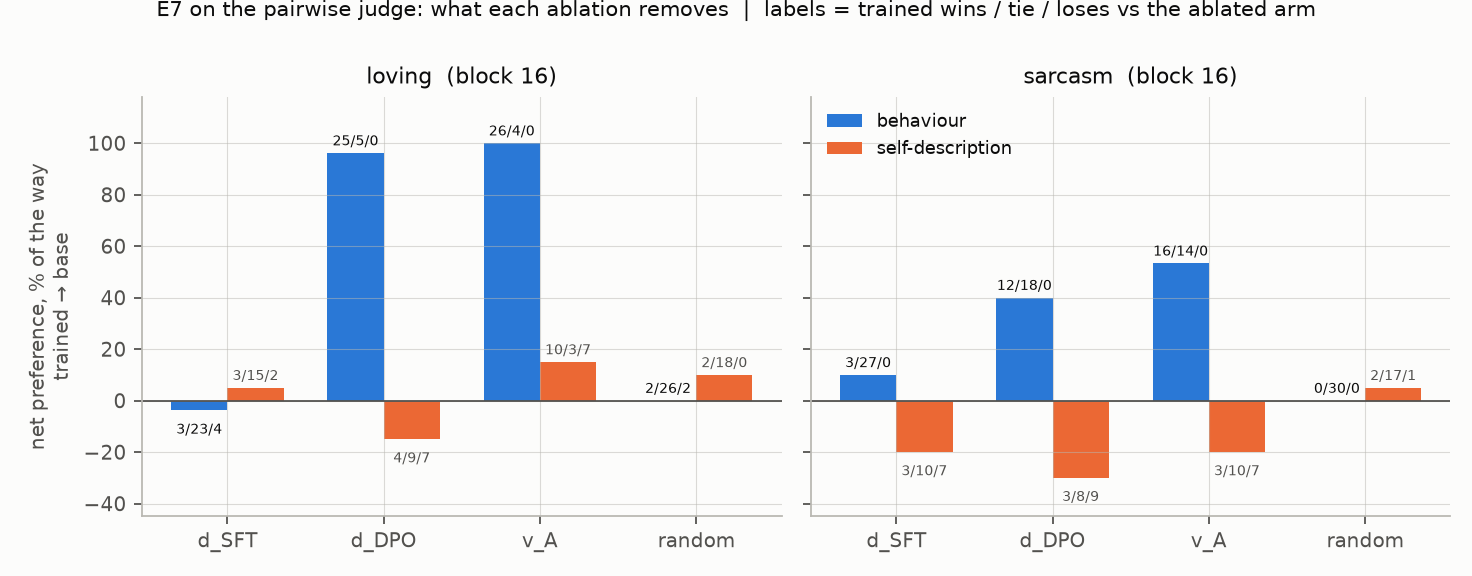
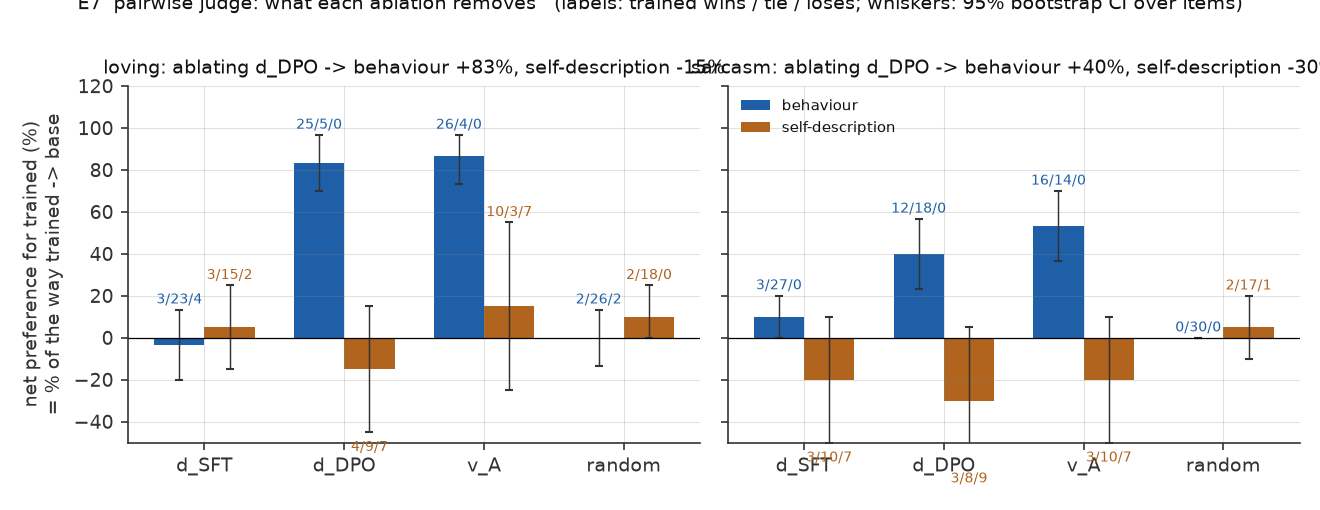
j-space-mech style on the three changed E7 figures (rc_context; bootstrap 95% CIs; W/T/L labels from plotted arrays) -- D-R27

diff --git a/chardiff/figures.py b/chardiff/figures.py
@@ -35,6 +35,52 @@ plt.rcParams.update({
 TABLES = []
 
 
+# ---------------------------------------------------------------- j-space-mech style
+# Conventions taken from /workspace/j-space-mech/scripts/figures.py (cloned from GitHub on
+# 2026-09-04, DECISIONS D-R27): a two-colour ROLE palette named in a comment, grey for
+# controls, green/red for pass/fail; dpi 150, font 9, top/right spines off, faint grid, white
+# ground; one simple figure per experiment, titled "E7  <claim>\n<qualifier with the key number
+# COMPUTED FROM THE PLOTTED ARRAYS>"; bootstrap 95% CIs (10k resamples, seed 0) on any plotted
+# mean over items; a thin black zero line; thresholds as faint bands / dashed lines with a short
+# right-aligned label. Applied, via rc_context, only to the figures whose data changed in the
+# regeneration (the three E7 figures); everything else keeps the committed style until a
+# separate pass.
+J_B, J_A = "#1F5FA8", "#B0641E"               # behaviour, self-description
+J_G, J_OK, J_NO = "#9A9A9A", "#1a7", "#B00"   # controls / base, pass, fail
+JSTYLE = {"figure.dpi": 150, "font.size": 9, "axes.spines.top": False, "axes.spines.right": False,
+          "axes.grid": True, "grid.alpha": .25, "grid.linewidth": .5, "grid.color": "#888",
+          "figure.facecolor": "white", "axes.facecolor": "white", "legend.frameon": False,
+          "axes.edgecolor": "#333", "xtick.color": "#333", "ytick.color": "#333",
+          "text.color": "#111", "axes.labelcolor": "#333", "axes.titlecolor": "#111"}
+
+
+def boot(v, n=10000, seed=0):
+    """95% bootstrap CI of the mean (j-space convention: 10k resamples, seed 0)."""
+    rng = np.random.default_rng(seed); v = np.asarray(v, float)
+    if len(v) == 0:
+        return np.nan, np.nan
+    d = rng.choice(v, size=(n, len(v)), replace=True).mean(1)
+    return np.percentile(d, 2.5), np.percentile(d, 97.5)
+
+
+def _outcomes(per_item):
+    """Pairwise per-item outcomes -> +1 (trained wins) / 0 (tie) / -1 (trained loses)."""
+    return [{"win": 1, "loss": -1, "tie": 0}[x] for x in per_item if x is not None]
+
+
+def _net_ci(per_item):
+    o = _outcomes(per_item); m = 100 * np.mean(o); lo, hi = boot(o)
+    return m, 100 * lo, 100 * hi
+
+
+def _jsave(fig, name, title):
+    fig.tight_layout()
+    fig.savefig(FIG / f"{name}.png", dpi=150, facecolor="white")
+    plt.close(fig)
+    print(f"  {name}.png   {title}   [j-space style]")
+
+
+
 def _save(fig, name, title):
     fig.tight_layout()
     fig.savefig(FIG / f"{name}.png", dpi=160, facecolor=SURFACE)
@@ -563,22 +609,29 @@ def fig_e7():
     keys = ["dSFT", "dDPO", "vA", "random"]
     nice = {"dSFT": "ablate d_SFT\n(introspection)", "dDPO": "ablate d_DPO\n(preference)",
             "vA": "ablate v_A\n(full diff)", "random": "ablate random"}
-    fig, ax = plt.subplots(figsize=(6.2, 3.6))
-    x = np.arange(len(keys)); w = 0.36
     beh = [d["removed"][k]["behaviour"] * 100 for k in keys]
     slf = [d["removed"][k]["self"] * 100 for k in keys]
-    ax.bar(x - w / 2, beh, w, color=C1, label="behaviour gap removed")
-    ax.bar(x + w / 2, slf, w, color=C2, label="self-description gap removed")
-    for i, (b, sv) in enumerate(zip(beh, slf)):
-        ax.text(i - w / 2, b + (2 if b >= 0 else -6), f"{b:.0f}%", ha="center", fontsize=8, color=INK)
-        ax.text(i + w / 2, sv + (2 if sv >= 0 else -6), f"{sv:.0f}%", ha="center", fontsize=8, color=INK2)
-    ax.axhline(0, lw=0.8, color=MUTED)
-    ax.set_xticks(x); ax.set_xticklabels([nice[k] for k in keys], fontsize=8)
-    ax.set_ylabel("% of base->trained gap removed")
-    ax.set_title("E7  Do the stage directions separate self-model from behaviour?\n"
-                 "loving, ablation at block 16, released adapter")
-    ax.legend(fontsize=8, loc="upper right")
-    _save(fig, "e7_self_vs_behaviour", "stage-direction ablation on two judges")
+    with plt.rc_context(JSTYLE):
+        fig, ax = plt.subplots(figsize=(6.0, 3.4))
+        x = np.arange(len(keys)); w = 0.36
+        ax.bar(x - w / 2, beh, w, color=J_B, label="behaviour gap removed")
+        ax.bar(x + w / 2, slf, w, color=J_A, label="self-description gap removed")
+        for i, (b, sv) in enumerate(zip(beh, slf)):
+            ax.text(i - w / 2, b + (1.5 if b >= 0 else -5), f"{b:.0f}%", ha="center", fontsize=7.5)
+            ax.text(i + w / 2, sv + (1.5 if sv >= 0 else -5), f"{sv:.0f}%", ha="center", fontsize=7.5)
+        ax.axhline(0, color="k", lw=.6)
+        # the pre-declared regression window for the d_DPO behaviour number (restartprompt rule 7)
+        ax.axhspan(55, 75, color=J_B, alpha=.08, lw=0)
+        ax.text(len(keys) - .55, 76.5, "regression window 55-75% (d_DPO behaviour, Likert)",
+                ha="right", fontsize=6.5, color=J_B)
+        ax.set_xticks(x); ax.set_xticklabels([nice[k] for k in keys], fontsize=8)
+        ax.set_ylabel("% of base->trained gap removed"); ax.set_ylim(-15, 100)
+        i_dpo = keys.index("dDPO")
+        ax.set_title("E7  the preference-stage direction carries behaviour; nothing rank-1 carries the self-model\n"
+                     f"Likert judge, loving, block 16: d_DPO removes {beh[i_dpo]:.0f}% of behaviour, "
+                     f"{slf[i_dpo]:.0f}% of self-description", fontsize=9)
+        ax.legend(fontsize=7, loc="upper left")
+        _jsave(fig, "e7_self_vs_behaviour", "stage-direction ablation on two judges")
     _table("E7 Stage-direction ablation, loving",
            ["ablation", "behaviour removed", "self-description removed", "self/beh ratio"],
            [[k, f"{d['removed'][k]['behaviour']:.1%}", f"{d['removed'][k]['self']:.1%}",
@@ -668,9 +721,10 @@ def fig_mediation():
 
 
 def fig_e7_pairwise():
-    """E7 on the pairwise instrument, both personas: fraction of the way from trained to base
-    (net preference) for behaviour and self-description, per ablation. Annotations are the
-    win/tie/loss counts, read from the same arrays that are plotted."""
+    """E7 on the pairwise instrument, both personas: net preference for trained over each
+    ablated arm (+ = trained more X), behaviour and self-description, with bootstrap 95% CIs
+    over probes. Base beats trained 20/0/0 on every axis, so net for trained == % of the way
+    to base. Labels are the W/T/L counts behind each bar, read from the plotted per-item lists."""
     data = {}
     for p in ("loving", "sarcasm"):
         f = RES / "scores" / f"llama_{p}_e7_pairwise.json"
@@ -679,49 +733,49 @@ def fig_e7_pairwise():
     if not data:
         return
     arms = [("ablate_dSFT", "d_SFT"), ("ablate_dDPO", "d_DPO"), ("ablate_vA", "v_A"), ("ablate_random", "random")]
-    fig, axes = plt.subplots(1, len(data), figsize=(4.6 * len(data), 3.6), sharey=True)
-    axes = np.atleast_1d(axes)
-    rows = []
-    for ax, (p, d) in zip(axes, data.items()):
-        x = np.arange(len(arms)); w = 0.36
-        beh = [d["behaviour"]["fraction_to_base"][a]["net_preference"] for a, _ in arms]
-        slf = [d["fraction_to_base"][a]["net_preference"] for a, _ in arms]
-        ax.bar(x - w / 2, [100 * b for b in beh], w, color=C1, label="behaviour")
-        ax.bar(x + w / 2, [100 * s_ for s_ in slf], w, color=C2, label="self-description")
-        for i, (a, lab) in enumerate(arms):
-            cb, cs = d["behaviour"]["vs_trained"][a], d["vs_trained"][a]
-            tb = f"{cb['ref_wins']}/{cb['ties']}/{cb['ref_losses']}"
-            ts = f"{cs['ref_wins']}/{cs['ties']}/{cs['ref_losses']}"
-            yb, ys = 100 * beh[i], 100 * slf[i]
-            ax.text(i - w / 2, yb + (3 if yb >= 0 else -9), tb, ha="center", fontsize=6.5, color=INK)
-            ax.text(i + w / 2, ys + (3 if ys >= 0 else -9), ts, ha="center", fontsize=6.5, color=INK2)
-            rows.append([p, lab, f"{beh[i]:+.1%}", tb, f"{slf[i]:+.1%}", ts])
-        ax.axhline(0, color=INK2, lw=0.8)
-        ax.set_xticks(x); ax.set_xticklabels([lab for _, lab in arms])
-        ax.set_title(f"{p}  (block 16)")
-        ax.set_ylim(-45, 118)
-    axes[0].set_ylabel("net preference, % of the way\ntrained \u2192 base")
-    axes[-1].legend(loc="upper left", fontsize=8)      # sarcasm panel has the empty corner
-    fig.suptitle("E7 on the pairwise judge: what each ablation removes  |  labels = trained wins / tie / loses vs the ablated arm",
-                 fontsize=9.5, y=1.0)
-    _save(fig, "e7_pairwise", "pairwise behaviour vs self-description per ablation")
-    _table("E7 pairwise, fraction of the way trained -> base (net preference) with counts",
+    rows, srows = [], []
+    with plt.rc_context(JSTYLE):
+        fig, axes = plt.subplots(1, len(data), figsize=(4.4 * len(data), 3.4), sharey=True)
+        axes = np.atleast_1d(axes)
+        for ax, (p, d) in zip(axes, data.items()):
+            x = np.arange(len(arms)); w = 0.36
+            B = [_net_ci(d["behaviour"]["vs_trained"][a]["per_item"]) for a, _ in arms]
+            S = [_net_ci(d["vs_trained"][a]["per_item"]) for a, _ in arms]
+            for off, vals, col, lab in ((-w / 2, B, J_B, "behaviour"), (w / 2, S, J_A, "self-description")):
+                m = [v[0] for v in vals]; err = [[v[0] - v[1] for v in vals], [v[2] - v[0] for v in vals]]
+                ax.bar(x + off, m, w, yerr=err, color=col, label=lab, error_kw=dict(lw=.7, capsize=2, ecolor="#333"))
+            for i, (a, lab) in enumerate(arms):
+                cb, cs = d["behaviour"]["vs_trained"][a], d["vs_trained"][a]
+                tb = f"{cb['ref_wins']}/{cb['ties']}/{cb['ref_losses']}"; ts = f"{cs['ref_wins']}/{cs['ties']}/{cs['ref_losses']}"
+                ax.text(i - w / 2, B[i][2] + 3, tb, ha="center", fontsize=6.5, color=J_B)
+                ax.text(i + w / 2, (S[i][2] + 3) if S[i][0] >= 0 else (S[i][1] - 9), ts, ha="center", fontsize=6.5, color=J_A)
+                rows.append([p, lab, f"{B[i][0]:+.0f}% [{B[i][1]:+.0f}, {B[i][2]:+.0f}]", tb,
+                             f"{S[i][0]:+.0f}% [{S[i][1]:+.0f}, {S[i][2]:+.0f}]", ts])
+            ax.axhline(0, color="k", lw=.6)
+            ax.set_xticks(x); ax.set_xticklabels([lab for _, lab in arms])
+            i_dpo = 1
+            ax.set_title(f"{p}: ablating d_DPO -> behaviour {B[i_dpo][0]:+.0f}%, self-description {S[i_dpo][0]:+.0f}%",
+                         fontsize=9)
+            ax.set_ylim(-50, 120)
+            sp = d["splice"]; t = sp["pairwise_trained_vs_spliced"]
+            srows.append([p, f"{sp['likert_trained_mean']:.2f}", f"{sp['likert_spliced_mean']:.2f}", f"{sp['likert_base_mean']:.2f}",
+                          f"{sp['likert_detection']:.0%}", f"{t['ref_wins']}/{t['ties']}/{t['ref_losses']}", f"{t['ref_wins']/t['n']:.0%}"])
+        axes[0].set_ylabel("net preference for trained (%)\n= % of the way trained -> base")
+        axes[-1].legend(fontsize=7, loc="upper left")
+        fig.suptitle("E7  pairwise judge: what each ablation removes   (labels: trained wins / tie / loses; whiskers: 95% bootstrap CI over items)",
+                     fontsize=9, y=1.01)
+        _jsave(fig, "e7_pairwise", "pairwise behaviour vs self-description per ablation")
+    _table("E7 pairwise, net preference for trained (% of the way trained -> base) with 95% CI and counts",
            ["persona", "ablate", "behaviour", "beh W/T/L", "self-description", "self W/T/L"], rows)
-    # splice sensitivity, both personas, as a table (the licensing check; a figure adds nothing)
-    srows = []
-    for p, d in data.items():
-        sp = d["splice"]; t = sp["pairwise_trained_vs_spliced"]
-        srows.append([p, f"{sp['likert_trained_mean']:.2f}", f"{sp['likert_spliced_mean']:.2f}", f"{sp['likert_base_mean']:.2f}",
-                      f"{sp['likert_detection']:.0%}", f"{t['ref_wins']}/{t['ties']}/{t['ref_losses']}", f"{t['ref_wins']/t['n']:.0%}"])
     _table("E7 splice test (half of trained's sentences replaced by base's): Likert vs pairwise detection",
            ["persona", "Likert trained", "Likert spliced", "Likert base", "Likert sees", "pairwise trained W/T/L vs spliced", "pairwise detection"], srows)
 
 
 def fig_rankk():
-    """Rank-k ablation, both personas: does removing more of the neutral-diff subspace reach
-    the self-model? Left: energy spectrum. Right: per arm, self-description and behaviour on
-    the pairwise instrument (net, % of the way trained -> base), random controls as the mean
-    over seeds. Counts annotated from the plotted arrays."""
+    """Rank-k ablation, both personas. Left: energy spectrum of the neutral diff. Right, per
+    persona: net preference for trained over each arm (+ = trained more X) on behaviour and
+    self-description, 95% bootstrap CIs over items; random controls pooled over 5 seeds (100
+    probe-pairs) in grey. Labels are W/T/L counts from the plotted per-item lists."""
     data = {}
     for p in ("loving", "sarcasm"):
         f = RES / "scores" / f"llama_{p}_rankk.json"
@@ -729,63 +783,77 @@ def fig_rankk():
             data[p] = json.loads(f.read_text())
     if not data:
         return
-    fig, axes = plt.subplots(1, 1 + len(data), figsize=(3.6 + 4.4 * len(data), 3.7),
-                             gridspec_kw={"width_ratios": [1] + [1.35] * len(data)})
-    ax0 = axes[0]
-    for i, (p, d) in enumerate(data.items()):
-        sp = d["spectrum"]
-        ks = [1, 3, 5, 10]; ys = [100 * sp[f"top{k}"] for k in ks]
-        ax0.plot(ks, ys, marker="o", color=[C1, C2][i], label=p)
-        for k, y in zip(ks, ys):
-            ax0.text(k, y + 1.5, f"{y:.0f}", ha="center", fontsize=7, color=[C1, C2][i])
-    ax0.set_xticks([1, 3, 5, 10]); ax0.set_xlabel("top-k components"); ax0.set_ylabel("energy in top-k (%)")
-    ax0.set_ylim(50, 100); ax0.set_title("neutral-diff spectrum (block 16)"); ax0.legend(fontsize=8, loc="lower right")
     arms = [("rank3", "rank-3"), ("rank5", "rank-5"), ("rank10", "rank-10"), ("vprobe", "v_probe"),
-            ("rand3_mean", "rand-3"), ("rand5_mean", "rand-5"), ("rand10_mean", "rand-10")]
-    rows = []
-    for ax, (p, d) in zip(axes[1:], data.items()):
-        T = d["table"]; x = np.arange(len(arms)); w = 0.36
-        slf = [T[a]["self_to_base_net"] for a, _ in arms]
-        beh = [T[a]["beh_to_base_net"] for a, _ in arms]
-        ax.bar(x - w / 2, [100 * (b if b is not None else 0) for b in beh], w, color=C1, label="behaviour")
-        ax.bar(x + w / 2, [100 * s_ for s_ in slf], w, color=C2, label="self-description")
-        for i, (a, lab) in enumerate(arms):
-            c = T[a]["self_vs_trained_counts"]; cb = T[a]["beh_vs_trained_counts"]
-            ys = 100 * slf[i]
-            ax.text(i + w / 2, ys + (3 if ys >= 0 else -9), f"{c[0]}/{c[1]}/{c[2]}", ha="center", fontsize=6, color=INK2)
-            if cb:
-                yb = 100 * beh[i]
-                ax.text(i - w / 2, yb + (3 if yb >= 0 else -9), f"{cb[0]}/{cb[1]}/{cb[2]}", ha="center", fontsize=6, color=INK)
-            else:
-                ax.text(i - w / 2, 3, "n/a", ha="center", fontsize=6, color=MUTED)
-            rows.append([p, lab, "n/a" if beh[i] is None else f"{beh[i]:+.1%}",
-                         "—" if not cb else f"{cb[0]}/{cb[1]}/{cb[2]}", f"{slf[i]:+.1%}", f"{c[0]}/{c[1]}/{c[2]}",
-                         f"{T[a]['trait_words_per_100']:.2f}", f"{T[a]['capability']:.2f}"])
-        ax.axhline(0, color=INK2, lw=0.8); ax.set_xticks(x)
-        ax.set_xticklabels([lab for _, lab in arms], rotation=30, ha="right", fontsize=8)
-        ax.set_title(f"{p}: net preference, % of the way trained \u2192 base"); ax.set_ylim(-45, 118)
-    axes[1].legend(loc="lower left", fontsize=8)      # the negative band is empty on loving; labels sit above bars
-    fig.suptitle("E7 rank-k ablation  |  behaviour readout on random controls not run (D-R21); labels = trained W/T/L vs arm",
-                 fontsize=9.5, y=1.0)
-    _save(fig, "e7_rankk", "rank-k subspace ablation, both personas")
-    _table("E7 rank-k ablation (pairwise net, % of the way trained -> base; random = mean over 5 seeds)",
-           ["persona", "arm", "behaviour", "beh W/T/L", "self-description", "self W/T/L (summed over seeds for random)", "trait words/100", "capability"], rows)
-    # raw counts, every arm and every seed (D-R26): the paper quotes these, not percentages
-    crow = []
-    for p, d in data.items():
-        A = d["arms"]
-        for tag in ("rank3", "rank5", "rank10", "vprobe", "base"):
-            c = A[tag]["self_vs_trained"]; b = A[tag].get("beh_vs_trained")
-            crow.append([p, tag, f"{c['ref_wins']} / {c['ties']} / {c['ref_losses']}",
-                         f"{b['ref_wins']} / {b['ties']} / {b['ref_losses']}" if b else "not run",
-                         f"{A[tag]['trait_words_per_100']:.2f}", f"{A[tag]['capability']:.2f}"])
-        for k in (3, 5, 10):
-            for s_ in range(5):
-                tag = f"rand{k}_{s_}"
-                if tag in A:
-                    c = A[tag]["self_vs_trained"]
-                    crow.append([p, tag, f"{c['ref_wins']} / {c['ties']} / {c['ref_losses']}", "not run (control)",
-                                 f"{A[tag]['trait_words_per_100']:.2f}", f"{A[tag]['capability']:.2f}"])
+            ("rand3", "rand-3"), ("rand5", "rand-5"), ("rand10", "rand-10")]
+    rows, crow = [], []
+    with plt.rc_context(JSTYLE):
+        fig, axes = plt.subplots(1, 1 + len(data), figsize=(3.4 + 4.6 * len(data), 3.6),
+                                 gridspec_kw={"width_ratios": [1] + [1.5] * len(data)})
+        ax0 = axes[0]
+        for i, (p, d) in enumerate(data.items()):
+            sp = d["spectrum"]; ks = [1, 3, 5, 10]; ys = [100 * sp[f"top{k}"] for k in ks]
+            ax0.plot(ks, ys, "o-", color=[J_B, J_A][i], lw=1.4, ms=4, label=p)
+            for k, y in zip(ks, ys):
+                ax0.text(k, y + 1.5, f"{y:.0f}", ha="center", fontsize=7, color=[J_B, J_A][i])
+        ax0.set_xticks([1, 3, 5, 10]); ax0.set_xlabel("top-k components of the neutral diff")
+        ax0.set_ylabel("energy in top-k (%)"); ax0.set_ylim(50, 100)
+        ax0.set_title("neutral-diff spectrum, block 16\n(uncentred; PC1 = v_A)", fontsize=9)
+        ax0.legend(fontsize=7, loc="lower right")
+        for ax, (p, d) in zip(axes[1:], data.items()):
+            A = d["arms"]; x = np.arange(len(arms)); w = 0.36
+            def items(tag, key):
+                if tag.startswith("rand"):
+                    return sum((A[f"{tag}_{s_}"][key]["per_item"] for s_ in range(5) if f"{tag}_{s_}" in A), [])
+                return A[tag][key]["per_item"]
+            def counts(tag, key):
+                if tag.startswith("rand"):
+                    cs = [A[f"{tag}_{s_}"][key] for s_ in range(5) if f"{tag}_{s_}" in A]
+                    return f"{sum(c['ref_wins'] for c in cs)}/{sum(c['ties'] for c in cs)}/{sum(c['ref_losses'] for c in cs)}"
+                c = A[tag][key]; return f"{c['ref_wins']}/{c['ties']}/{c['ref_losses']}"
+            S = [_net_ci(items(a, "self_vs_trained")) for a, _ in arms]
+            B = [_net_ci(items(a, "beh_vs_trained")) if not a.startswith("rand") else None for a, _ in arms]
+            for i, (a, lab) in enumerate(arms):
+                ctl = a.startswith("rand")
+                if B[i]:
+                    ax.bar(i - w / 2, B[i][0], w, yerr=[[B[i][0] - B[i][1]], [B[i][2] - B[i][0]]], color=J_B,
+                           error_kw=dict(lw=.7, capsize=2, ecolor="#333"))
+                    ax.text(i - w / 2, B[i][2] + 3, counts(a, "beh_vs_trained"), ha="center", fontsize=6, color=J_B)
+                else:
+                    ax.text(i - w / 2, 3, "not\nrun", ha="center", fontsize=6, color=J_G)
+                ax.bar(i + w / 2, S[i][0], w, yerr=[[S[i][0] - S[i][1]], [S[i][2] - S[i][0]]], color=J_G if ctl else J_A,
+                       error_kw=dict(lw=.7, capsize=2, ecolor="#333"))
+                ax.text(i + w / 2, (S[i][2] + 3) if S[i][0] >= 0 else (S[i][1] - 9), counts(a, "self_vs_trained"),
+                        ha="center", fontsize=6, color=J_G if ctl else J_A)
+                T = d["table"][a if not ctl else f"{a}_mean"]
+                rows.append([p, lab, "not run" if not B[i] else f"{B[i][0]:+.0f}% [{B[i][1]:+.0f}, {B[i][2]:+.0f}]",
+                             "—" if not B[i] else counts(a, "beh_vs_trained"),
+                             f"{S[i][0]:+.0f}% [{S[i][1]:+.0f}, {S[i][2]:+.0f}]", counts(a, "self_vs_trained"),
+                             f"{T['trait_words_per_100']:.2f}", f"{T['capability']:.2f}"])
+            ax.axhline(0, color="k", lw=.6)
+            ax.set_xticks(x); ax.set_xticklabels([lab for _, lab in arms], rotation=30, ha="right", fontsize=8)
+            ax.set_ylim(-50, 120)
+            ax.set_title(f"{p}: rank-10 removes {B[2][0]:.0f}% of behaviour, {S[2][0]:+.0f}% of self-description;"
+                         f" v_probe {S[3][0]:+.0f}%", fontsize=9)
+            for tag in ("rank3", "rank5", "rank10", "vprobe", "base"):
+                c = A[tag]["self_vs_trained"]; b = A[tag].get("beh_vs_trained")
+                crow.append([p, tag, f"{c['ref_wins']} / {c['ties']} / {c['ref_losses']}",
+                             f"{b['ref_wins']} / {b['ties']} / {b['ref_losses']}" if b else "not run",
+                             f"{A[tag]['trait_words_per_100']:.2f}", f"{A[tag]['capability']:.2f}"])
+            for k in (3, 5, 10):
+                for s_ in range(5):
+                    tag = f"rand{k}_{s_}"
+                    if tag in A:
+                        c = A[tag]["self_vs_trained"]
+                        crow.append([p, tag, f"{c['ref_wins']} / {c['ties']} / {c['ref_losses']}", "not run (control)",
+                                     f"{A[tag]['trait_words_per_100']:.2f}", f"{A[tag]['capability']:.2f}"])
+        axes[1].set_ylabel("net preference for trained (%)\n= % of the way trained -> base")
+        h = [plt.Rectangle((0, 0), 1, 1, color=c) for c in (J_B, J_A, J_G)]
+        axes[-1].legend(h, ["behaviour", "self-description", "random control (5 seeds pooled)"], fontsize=6.5, loc="upper right")
+        fig.suptitle("E7  rank-k ablation: can more of the neutral-diff subspace reach the self-model?   "
+                     "(labels: trained W/T/L; whiskers: 95% bootstrap CI over items)", fontsize=9, y=1.01)
+        _jsave(fig, "e7_rankk", "rank-k subspace ablation, both personas")
+    _table("E7 rank-k ablation (net preference for trained, % of the way trained -> base, 95% CI; random = 5 seeds pooled)",
+           ["persona", "arm", "behaviour", "beh W/T/L", "self-description", "self W/T/L", "trait words/100", "capability"], rows)
     _table("E7 rank-k: raw pairwise counts, every arm and seed (trained wins / tie / trained loses; 20 probes, 30 behaviour prompts)",
            ["persona", "arm", "self-description W/T/L", "behaviour W/T/L", "trait words/100", "capability"], crow)
     _table("E7 rank-k: neutral-diff energy spectrum and v_probe",
